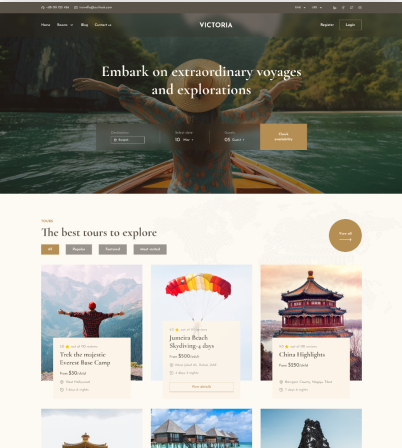
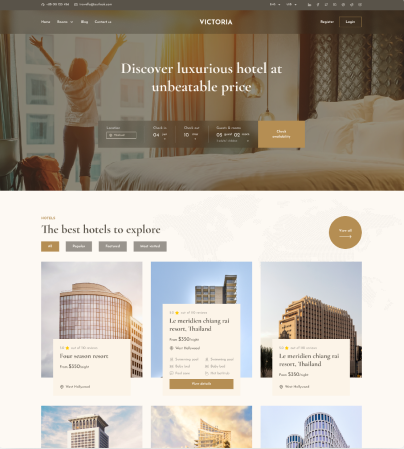
template list image updated

diff --git a/travelfic-toolkit.php b/travelfic-toolkit.php
@@ -4,7 +4,7 @@
  * Plugin URI: https://themefic.com/
  * Description: Travelfic Toolkit allows you to add extra functionality to the Travelfic WordPress theme's Customizer, Widgets Section, Single Tour, Single Hotel area etc. This toolkit improves the overall design and performance of your hotel or travel booking website developed using the Travelfic theme.
  * Author: themefic
- * Version: 1.0.0
+ * Version: 1.0.1
  * Tested up to: 6.4
  * Text Domain: travelfic-toolkit
  * Domain Path: /lang/
@@ -23,7 +23,7 @@ include_once( ABSPATH . 'wp-admin/includes/plugin.php' );
 
 define( 'TRAVELFIC_TOOLKIT_URL', plugin_dir_url( __FILE__ ) );
 define( 'TRAVELFIC_TOOLKIT_PATH', plugin_dir_path( __FILE__ ) );
-define( 'TRAVELFIC_TOOLKIT_VERSION', '1.0.0' );
+define( 'TRAVELFIC_TOOLKIT_VERSION', '1.0.1' );
 
 /**
  * Include file from plugin if it is not available in theme
@@ -111,17 +111,17 @@ if(is_admin()){
 
 function travelfic_toolkit_enqueue_customizer_scripts() {
     // Select2 Lib
-    wp_enqueue_style( 'travelfic-toolkit-select2', TRAVELFIC_TOOLKIT_URL . 'assets/admin/lib/select2/select2.min.css', array(), '1.0.0' );
-    wp_enqueue_script( 'travelfic-toolkit-select2', TRAVELFIC_TOOLKIT_URL . 'assets/admin/lib/select2/select2.min.js', array('jquery'), '1.0.0', true );
+    wp_enqueue_style( 'travelfic-toolkit-select2', TRAVELFIC_TOOLKIT_URL . 'assets/admin/lib/select2/select2.min.css', array(), TRAVELFIC_TOOLKIT_VERSION );
+    wp_enqueue_script( 'travelfic-toolkit-select2', TRAVELFIC_TOOLKIT_URL . 'assets/admin/lib/select2/select2.min.js', array('jquery'), TRAVELFIC_TOOLKIT_VERSION, true );
 
-    wp_enqueue_style( 'travelfic-toolkit', TRAVELFIC_TOOLKIT_URL . 'assets/admin/css/style.css', array(), '1.0.0' );
-    wp_enqueue_script( 'travelfic-toolkit-script', TRAVELFIC_TOOLKIT_URL . 'assets/admin/js/customizer.js', array( 'jquery', 'customize-controls' ), '1.0.0', true );
+    wp_enqueue_style( 'travelfic-toolkit', TRAVELFIC_TOOLKIT_URL . 'assets/admin/css/style.css', array(), TRAVELFIC_TOOLKIT_VERSION );
+    wp_enqueue_script( 'travelfic-toolkit-script', TRAVELFIC_TOOLKIT_URL . 'assets/admin/js/customizer.js', array( 'jquery', 'customize-controls' ), TRAVELFIC_TOOLKIT_VERSION, true );
 }
 add_action( 'customize_controls_enqueue_scripts', 'travelfic_toolkit_enqueue_customizer_scripts' );
 
 function travelfic_toolkit_enqueue_customizer_preview_scripts() {
-    wp_enqueue_style( 'travelfic-toolkit-select2', TRAVELFIC_TOOLKIT_URL . 'assets/admin/lib/select2/select2.min.css', array(), '1.0.0' );
-    wp_enqueue_style( 'travelfic-toolkit', TRAVELFIC_TOOLKIT_URL . 'assets/admin/css/style.css', array(), '1.0.0' );
+    wp_enqueue_style( 'travelfic-toolkit-select2', TRAVELFIC_TOOLKIT_URL . 'assets/admin/lib/select2/select2.min.css', array(), TRAVELFIC_TOOLKIT_VERSION );
+    wp_enqueue_style( 'travelfic-toolkit', TRAVELFIC_TOOLKIT_URL . 'assets/admin/css/style.css', array(), TRAVELFIC_TOOLKIT_VERSION );
 }
 add_action( 'customize_preview_init', 'travelfic_toolkit_enqueue_customizer_preview_scripts' );
 
@@ -131,9 +131,9 @@ add_action( 'customize_preview_init', 'travelfic_toolkit_enqueue_customizer_prev
 
 add_action( 'wp_enqueue_scripts', 'travelfic_toolkit_front_page_script' );
 function travelfic_toolkit_front_page_script() {
-    wp_enqueue_script( 'travelfic-toolkit-fontend', TRAVELFIC_TOOLKIT_URL . 'assets/app/js/main.js', array( 'jquery'), '1.0.0', true );
-    wp_enqueue_style( 'travelfic-toolkit-css', TRAVELFIC_TOOLKIT_URL . 'assets/app/css/style.css', false, '1.0.0' );
-    wp_enqueue_style( 'travelfic-toolkit-desgin-2', TRAVELFIC_TOOLKIT_URL . 'assets/app/css/design-2.css', false, '1.0.0' );
+    wp_enqueue_script( 'travelfic-toolkit-fontend', TRAVELFIC_TOOLKIT_URL . 'assets/app/js/main.js', array( 'jquery'), TRAVELFIC_TOOLKIT_VERSION, true );
+    wp_enqueue_style( 'travelfic-toolkit-css', TRAVELFIC_TOOLKIT_URL . 'assets/app/css/style.css', false, TRAVELFIC_TOOLKIT_VERSION );
+    wp_enqueue_style( 'travelfic-toolkit-desgin-2', TRAVELFIC_TOOLKIT_URL . 'assets/app/css/design-2.css', false, TRAVELFIC_TOOLKIT_VERSION );
 }
 
 /**
@@ -155,8 +155,8 @@ function travelfic_toolkit_front_page_script() {
     if ( ! is_plugin_active( 'woocommerce/woocommerce.php' ) ) {
         $travelfic_toolkit_active_plugins[] = "woocommerce";
     }
-     wp_enqueue_style( 'travelfic-toolkit-admin-css', TRAVELFIC_TOOLKIT_URL . 'assets/admin/css/template-setup.css', false, '1.0.0' );
-     wp_enqueue_script( 'travelfic-toolkit-admin-js', TRAVELFIC_TOOLKIT_URL . 'assets/admin/js/template-setup.js', array( 'jquery'), '1.0.0', true );
+     wp_enqueue_style( 'travelfic-toolkit-admin-css', TRAVELFIC_TOOLKIT_URL . 'assets/admin/css/template-setup.css', false, TRAVELFIC_TOOLKIT_VERSION );
+     wp_enqueue_script( 'travelfic-toolkit-admin-js', TRAVELFIC_TOOLKIT_URL . 'assets/admin/js/template-setup.js', array( 'jquery'), TRAVELFIC_TOOLKIT_VERSION, true );
      wp_localize_script( 'travelfic-toolkit-admin-js', 'travelfic_toolkit_script_params',
         array(
             'travelfic_toolkit_nonce'   => wp_create_nonce( 'updates' ),

diff --git a/inc/class/class-template-list.php b/inc/class/class-template-list.php
@@ -177,7 +177,7 @@ if ( ! class_exists( 'Travelfic_Template_List' ) ) {
 
                         <div class="travelfic-single-template">
                             <div class="template-img">
-                                <img src="<?php echo TRAVELFIC_TOOLKIT_URL . 'assets/admin/img/templates/home-1.png' ?>" alt="">
+                                <img src="<?php echo TRAVELFIC_TOOLKIT_URL . 'assets/admin/img/templates/home-2.png' ?>" alt="">
                                 <span class="new-template-tag">
                                     <?php _e("New", "travelfic-toolkit"); ?>
                                 </span>
